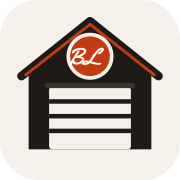
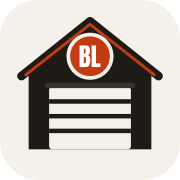
Add files via upload

Changed region(s): [[0.3889, 0.25, 0.5833, 0.3889]]

diff --git a/index.html b/index.html
@@ -3,15 +3,15 @@
 <head>
 <meta charset="utf-8">
 <meta name="viewport" content="width=device-width, initial-scale=1">
-<title>Back Lot Printing — Laser engraving &amp; 3D printing, made locally</title>
-<meta name="description" content="Family-owned laser engraving and 3D printing. Tumblers, flasks, dog tags, pet tags, gifts, metal business cards and tool marking — engraved and checked by hand.">
+<title>Back Lot Printing — Laser engraving, 3D printing &amp; custom shirts, made locally</title>
+<meta name="description" content="Family-owned laser engraving, 3D printing and custom DTF shirts. Tumblers, flasks, dog tags, pet tags, gifts, metal business cards and tool marking — engraved and checked by hand.">
 <link rel="icon" href="/favicon.ico" sizes="48x48">
 <link rel="icon" href="/favicon.svg" type="image/svg+xml">
 <link rel="icon" href="/favicon-192.png" type="image/png" sizes="192x192">
 <link rel="apple-touch-icon" href="/apple-touch-icon.png">
 <meta property="og:type" content="website">
 <meta property="og:site_name" content="Back Lot Printing">
-<meta property="og:title" content="Back Lot Printing — Laser engraving &amp; 3D printing in Sherwood Park">
+<meta property="og:title" content="Back Lot Printing — Laser engraving, 3D printing &amp; custom shirts in Sherwood Park">
 <meta property="og:description" content="Engraved gifts &amp; goods, made right here. Tumblers, metal business cards, golf balls, pet tags and custom 3D prints.">
 <meta property="og:url" content="https://backlotprinting.com/">
 <meta property="og:image" content="https://backlotprinting.com/og-image.png">
@@ -35,12 +35,13 @@
 <header class="site-header site-header--dark">
   <div class="wrap">
     <a class="logo" href="index.html" aria-label="Back Lot Printing home">
-      <svg width="48" height="48" viewBox="0 0 64 64" aria-hidden="true"><path d="M4 26 L32 5 L60 26 V60 H4 Z" fill="#1E1B17"/><rect x="15" y="33" width="34" height="27" fill="#F5F1EA"/><path d="M15 39.5 H49 M15 46 H49 M15 52.5 H49" stroke="#1E1B17" stroke-width="2.4"/><circle cx="32" cy="21.5" r="9.2" fill="#C23B12" stroke="#FFFFFF" stroke-width="1.6"/><text x="30.73" y="24.97" text-anchor="middle" font-family="Yellowtail, 'Brush Script MT', cursive" font-size="10" fill="#FFFFFF">BL</text></svg>
+      <svg width="48" height="48" viewBox="0 0 64 64" aria-hidden="true"><path d="M4 26 L32 5 L60 26 V60 H4 Z" fill="#1E1B17"/><rect x="15" y="33" width="34" height="27" fill="#F5F1EA"/><path d="M15 39.5 H49 M15 46 H49 M15 52.5 H49" stroke="#1E1B17" stroke-width="2.4"/><circle cx="32" cy="21.5" r="9.2" fill="#C23B12" stroke="#FFFFFF" stroke-width="1.6"/><path d="M27.57 26.1V16.9H30.07Q31.07 16.9 31.53 17.39Q31.98 17.88 31.98 19V19.4Q31.98 20.05 31.75 20.45Q31.52 20.86 31.04 20.98Q31.67 21.14 31.88 21.72Q32.09 22.29 32.09 23.13Q32.09 24.02 31.92 24.69Q31.75 25.36 31.32 25.73Q30.88 26.1 30.07 26.1ZM29.37 20.37H29.75Q30 20.37 30.08 20.17Q30.15 19.97 30.15 19.69V18.77Q30.15 18.32 29.76 18.32H29.37ZM29.55 24.48Q30.27 24.48 30.27 23.8V22.65Q30.27 22.26 30.15 22.03Q30.03 21.8 29.71 21.8H29.37V24.47Q29.49 24.48 29.55 24.48ZM32.7 26.1V16.9H34.54V24.53H36.43V26.1Z" fill="#FFFFFF"/></svg>
       <span class="logo-words"><b>BACK LOT</b><small>PRINTING</small></span>
     </a>
     <nav id="site-nav" class="nav" aria-label="Main">
       <a href="shop.html">Shop</a>
       <a href="shop.html?cat=print">3D printing</a>
+      <a href="shop.html?cat=apparel">Custom shirts</a>
       <a href="#byo">Bring your own</a>
       <a href="#business">Business &amp; trade</a>
       <a href="#work">Our work</a>
@@ -64,13 +65,13 @@
 <section class="hero hero--laser">
   <div class="wrap">
     <div class="hero-copy">
-      <p class="hero-kicker">Laser engraving &amp; 3D printing in <span data-cfg="town">Sherwood Park</span></p>
+      <p class="hero-kicker">Laser engraving, 3D printing &amp; custom shirts in <span data-cfg="town">Sherwood Park</span></p>
       <h1 class="h1 burn" aria-label="Engraved gifts and goods, made right here.">
         <span class="burn-line" aria-hidden="true"><span class="burn-text">Engraved gifts</span></span>
         <span class="burn-line" aria-hidden="true"><span class="burn-text">&amp; goods, made</span></span>
         <span class="burn-line" aria-hidden="true"><span class="burn-text">right here.</span></span>
       </h1>
-      <p class="lede">From $20 bring-your-own tumbler engraving to custom metal business cards, golf balls and personalized 3D-printed toys. Every piece is set up, engraved and checked by hand in our local family shop.</p>
+      <p class="lede">From $20 bring-your-own tumbler engraving to custom metal business cards, golf balls, personalized 3D-printed toys and full-colour custom shirts. Every piece is set up, engraved and checked by hand in our local family shop.</p>
       <div class="hero-actions">
         <a class="btn btn-accent" href="shop.html">Shop engraved goods</a>
         <a class="btn btn-ghost-light" href="#byo">Bring your own item</a>
@@ -267,7 +268,7 @@
       <rect x="18" y="38.5" width="44" height="2.6" rx="1.3" fill="#3A342C"/>
       <circle cx="40" cy="25.5" r="10.6" fill="#C23B12" stroke="#F5F1EA" stroke-width="1.8"/>
       <circle cx="40" cy="25.5" r="8.4" fill="none" stroke="#F5F1EA" stroke-width=".6" opacity=".7"/>
-      <text x="38.54" y="29.50" text-anchor="middle" font-family="Yellowtail, 'Brush Script MT', cursive" font-size="11.5" fill="#FFFFFF">BL</text>
+      <path d="M34.9 30.8V20.2H37.77Q38.93 20.2 39.45 20.76Q39.98 21.33 39.98 22.62V23.08Q39.98 23.83 39.71 24.3Q39.45 24.76 38.9 24.9Q39.61 25.08 39.86 25.75Q40.1 26.42 40.1 27.37Q40.1 28.4 39.91 29.17Q39.72 29.94 39.21 30.37Q38.71 30.8 37.77 30.8ZM36.97 24.19H37.4Q37.7 24.19 37.78 23.96Q37.87 23.74 37.87 23.42V22.35Q37.87 21.84 37.42 21.84H36.97ZM37.18 28.93Q38.01 28.93 38.01 28.15V26.83Q38.01 26.37 37.87 26.11Q37.74 25.85 37.36 25.85H36.97V28.92Q37.1 28.93 37.18 28.93ZM40.8 30.8V20.2H42.92V28.99H45.1V30.8Z" fill="#FFFFFF"/>
     </svg>
   </div>
   <div class="about-copy">
@@ -359,7 +360,7 @@
     <form class="card-form" id="quote-form" novalidate>
       <div class="field"><label for="q-name">Name</label><input id="q-name" name="Name" type="text" autocomplete="name" required></div>
       <div class="field"><label for="q-email">Email</label><input id="q-email" name="Email" type="email" autocomplete="email" required></div>
-      <div class="field"><label for="q-type">Type of order</label><select id="q-type" name="Type"><option>A gift</option><option>Bring-your-own engraving</option><option>Team, school or fundraiser</option><option>Business or trade</option><option>Wedding or event</option><option>Something else</option></select></div>
+      <div class="field"><label for="q-type">Type of order</label><select id="q-type" name="Type"><option>A gift</option><option>Bring-your-own engraving</option><option>Custom shirts, apparel or DTF printing</option><option>Team, school or fundraiser</option><option>Business or trade</option><option>Wedding or event</option><option>Something else</option></select></div>
       <div class="field"><label for="q-qty">Quantity</label><input id="q-qty" name="Quantity" type="number" min="1" placeholder="e.g. 12"></div>
       <div class="field full"><label for="q-msg">Details</label><textarea id="q-msg" name="Details" placeholder="What to engrave, on what, and when you need it" required></textarea></div>
       <p class="full muted" style="margin:0;font-size:14px">Have a logo or photo? Mention it here and we'll ask you to email it after we reply.</p>
@@ -379,6 +380,8 @@
     <details><summary>How long does it take?</summary><p>Most orders take <span data-cfg="turnaround">3–5 business days</span>. Need it sooner? Ask and we'll do our best.</p></details>
     <details><summary>How do I pay?</summary><p>Send your order request and we'll confirm the details and total. You can pay by e-transfer or when you pick up.</p></details>
     <details><summary>Can you personalize 3D-printed toys?</summary><p>Yes. We print our own toy designs in the colours you pick, then add a name, either printed right into the toy or laser-engraved afterwards. Perfect for birthdays, stocking stuffers and party favours. Toys have small parts and aren't meant for children under 3.</p></details>
+    <details><summary>What is DTF shirt printing?</summary><p>DTF (direct-to-film) prints your design in full colour onto a special film, then we heat-press it onto the garment. It works on cotton, polyester, blends, canvas and denim, on light or dark colours, so we can do shirts, hoodies, jackets, aprons, bags, pillow covers and more. There is no minimum: one piece is a real order. Wash inside out in cold water and it lasts.</p></details>
+    <details><summary>Can you print any design on a shirt?</summary><p>We print your own artwork, logos you own, names, numbers, photos and text. We can't print sports team logos, brands or characters you don't have the rights to. Send a high-resolution PNG (300 dpi at print size) or a vector file and we'll check it before printing.</p></details>
     <details><summary>What file should I send for a logo?</summary><p>Vector files (SVG, PDF, AI) are ideal. A high-resolution PNG works too, and we can clean up most logos for you.</p></details>
   </div>
 </section>
@@ -402,10 +405,10 @@
     <div class="footer-grid">
       <div class="footer-col">
         <a class="logo" href="index.html" aria-label="Back Lot Printing home" style="color:#F5F1EA">
-          <svg width="52" height="52" viewBox="0 0 64 64" aria-hidden="true"><path d="M4 26 L32 5 L60 26 V60 H4 Z" fill="#F5F1EA"/><rect x="15" y="33" width="34" height="27" fill="#1E1B17"/><path d="M15 39.5 H49 M15 46 H49 M15 52.5 H49" stroke="#F5F1EA" stroke-width="2.4"/><circle cx="32" cy="21.5" r="9.2" fill="#C23B12" stroke="#FFFFFF" stroke-width="1.6"/><text x="30.73" y="24.97" text-anchor="middle" font-family="Yellowtail, 'Brush Script MT', cursive" font-size="10" fill="#FFFFFF">BL</text></svg>
+          <svg width="52" height="52" viewBox="0 0 64 64" aria-hidden="true"><path d="M4 26 L32 5 L60 26 V60 H4 Z" fill="#F5F1EA"/><rect x="15" y="33" width="34" height="27" fill="#1E1B17"/><path d="M15 39.5 H49 M15 46 H49 M15 52.5 H49" stroke="#F5F1EA" stroke-width="2.4"/><circle cx="32" cy="21.5" r="9.2" fill="#C23B12" stroke="#FFFFFF" stroke-width="1.6"/><path d="M27.57 26.1V16.9H30.07Q31.07 16.9 31.53 17.39Q31.98 17.88 31.98 19V19.4Q31.98 20.05 31.75 20.45Q31.52 20.86 31.04 20.98Q31.67 21.14 31.88 21.72Q32.09 22.29 32.09 23.13Q32.09 24.02 31.92 24.69Q31.75 25.36 31.32 25.73Q30.88 26.1 30.07 26.1ZM29.37 20.37H29.75Q30 20.37 30.08 20.17Q30.15 19.97 30.15 19.69V18.77Q30.15 18.32 29.76 18.32H29.37ZM29.55 24.48Q30.27 24.48 30.27 23.8V22.65Q30.27 22.26 30.15 22.03Q30.03 21.8 29.71 21.8H29.37V24.47Q29.49 24.48 29.55 24.48ZM32.7 26.1V16.9H34.54V24.53H36.43V26.1Z" fill="#FFFFFF"/></svg>
           <span class="logo-words"><b>BACK LOT</b><small>PRINTING</small></span>
         </a>
-        <p class="footer-note">Family-owned laser engraving &amp; 3D printing in <span data-cfg="town">[YOUR TOWN]</span>. Gifts, keepsakes and business goods, made by hand.</p>
+        <p class="footer-note">Family-owned laser engraving, 3D printing &amp; custom shirts in <span data-cfg="town">[YOUR TOWN]</span>. Gifts, keepsakes and business goods, made by hand.</p>
         <a data-link="instagram" data-cfg-if="instagram" href="#"></a>
       </div>
       <div class="footer-col"><strong>Shop</strong><a href="shop.html">All products</a><a href="shop.html?cat=drink">Drinkware</a><a href="shop.html?cat=gifts">Gift ideas</a><a href="#byo">Bring your own</a></div>
@@ -425,10 +428,10 @@ document.addEventListener('DOMContentLoaded', function () {
   var catBlurb = {
     drink: 'Tumblers, flasks, bottles and pint cups', tags: 'Dog tags, pet tags, keychains, bag tags',
     pets: 'Pet ID tags, collar plates, memorial slate', edc: 'Knives, lighters, money clips, multitools',
-    gifts: 'Boards, slate, photo metal, leather', print: 'Personalized toys, name keychains, jigs', kids: 'Ornaments, cut-outs, paint-your-own', awards: 'Challenge coins, plaques, awards', biz: 'Business cards, asset tags, tool marking'
+    gifts: 'Boards, slate, photo metal, leather', print: 'Personalized toys, name keychains, jigs', apparel: 'Tees, hoodies, bags, DTF transfers and anything we can press', kids: 'Ornaments, cut-outs, paint-your-own', awards: 'Challenge coins, plaques, awards', biz: 'Business cards, asset tags, tool marking'
   };
-  var catArt = { drink: 'tumbler', tags: 'keychain', pets: 'dogtag', edc: 'knife', gifts: 'board', print: 'print3d', kids: 'ornament', awards: 'award', biz: 'card' };
-  var catBg = { drink: '#EDE6DA', tags: '#E4E8DF', pets: '#F1E3D8', edc: '#EDE6DA', gifts: '#EDE6DA', print: '#E4E8DF', kids: '#F1E3D8', awards: '#EDE6DA', biz: '#E0E7E5' };
+  var catArt = { drink: 'tumbler', tags: 'keychain', pets: 'dogtag', edc: 'knife', gifts: 'board', print: 'print3d', apparel: 'tshirt', kids: 'ornament', awards: 'award', biz: 'card' };
+  var catBg = { drink: '#EDE6DA', tags: '#E4E8DF', pets: '#F1E3D8', edc: '#EDE6DA', gifts: '#EDE6DA', print: '#E4E8DF', apparel: '#E0E7E5', kids: '#F1E3D8', awards: '#EDE6DA', biz: '#E0E7E5' };
   var html = '';
   Object.keys(catBlurb).forEach(function (c) {
     var items = P.filter(function (p) { return p.cat === c; });

diff --git a/shop.html b/shop.html
@@ -4,7 +4,7 @@
 <meta charset="utf-8">
 <meta name="viewport" content="width=device-width, initial-scale=1">
 <title>Shop — Back Lot Printing</title>
-<meta name="description" content="Shop engraved tumblers, flasks, dog tags, pet tags, gifts, awards and business goods. Bring your own item or pick one of ours.">
+<meta name="description" content="Shop engraved tumblers, flasks, dog tags, pet tags, gifts, awards, business goods, custom shirts and DTF transfers. Bring your own item or pick one of ours.">
 <link rel="icon" href="/favicon.ico" sizes="48x48">
 <link rel="icon" href="/favicon.svg" type="image/svg+xml">
 <link rel="icon" href="/favicon-192.png" type="image/png" sizes="192x192">
@@ -24,12 +24,13 @@
 <header class="site-header">
   <div class="wrap">
     <a class="logo" href="index.html" aria-label="Back Lot Printing home">
-      <svg width="48" height="48" viewBox="0 0 64 64" aria-hidden="true"><path d="M4 26 L32 5 L60 26 V60 H4 Z" fill="#1E1B17"/><rect x="15" y="33" width="34" height="27" fill="#F5F1EA"/><path d="M15 39.5 H49 M15 46 H49 M15 52.5 H49" stroke="#1E1B17" stroke-width="2.4"/><circle cx="32" cy="21.5" r="9.2" fill="#C23B12" stroke="#FFFFFF" stroke-width="1.6"/><text x="30.73" y="24.97" text-anchor="middle" font-family="Yellowtail, 'Brush Script MT', cursive" font-size="10" fill="#FFFFFF">BL</text></svg>
+      <svg width="48" height="48" viewBox="0 0 64 64" aria-hidden="true"><path d="M4 26 L32 5 L60 26 V60 H4 Z" fill="#1E1B17"/><rect x="15" y="33" width="34" height="27" fill="#F5F1EA"/><path d="M15 39.5 H49 M15 46 H49 M15 52.5 H49" stroke="#1E1B17" stroke-width="2.4"/><circle cx="32" cy="21.5" r="9.2" fill="#C23B12" stroke="#FFFFFF" stroke-width="1.6"/><path d="M27.57 26.1V16.9H30.07Q31.07 16.9 31.53 17.39Q31.98 17.88 31.98 19V19.4Q31.98 20.05 31.75 20.45Q31.52 20.86 31.04 20.98Q31.67 21.14 31.88 21.72Q32.09 22.29 32.09 23.13Q32.09 24.02 31.92 24.69Q31.75 25.36 31.32 25.73Q30.88 26.1 30.07 26.1ZM29.37 20.37H29.75Q30 20.37 30.08 20.17Q30.15 19.97 30.15 19.69V18.77Q30.15 18.32 29.76 18.32H29.37ZM29.55 24.48Q30.27 24.48 30.27 23.8V22.65Q30.27 22.26 30.15 22.03Q30.03 21.8 29.71 21.8H29.37V24.47Q29.49 24.48 29.55 24.48ZM32.7 26.1V16.9H34.54V24.53H36.43V26.1Z" fill="#FFFFFF"/></svg>
       <span class="logo-words"><b>BACK LOT</b><small>PRINTING</small></span>
     </a>
     <nav id="site-nav" class="nav" aria-label="Main">
       <a href="shop.html" aria-current="page">Shop</a>
       <a href="shop.html?cat=print">3D printing</a>
+      <a href="shop.html?cat=apparel">Custom shirts</a>
       <a href="index.html#byo">Bring your own</a>
       <a href="index.html#business">Business &amp; trade</a>
       <a href="index.html#about">About</a>
@@ -50,8 +51,8 @@
 
 <main class="wrap">
   <div class="shop-head">
-    <div><span class="label">Engraved in our shop</span><h1 class="h1" style="font-size:clamp(40px,5vw,68px)">Shop custom goods</h1></div>
-    <p class="lede" style="max-width:26em">Tap any item to personalize it. Bring your own tumbler, knife or tag, or pick one of ours. Save 10% at 10 pieces and 20% at 50.</p>
+    <div><span class="label">Made in our shop</span><h1 class="h1" style="font-size:clamp(40px,5vw,68px)">Shop custom goods</h1></div>
+    <p class="lede" style="max-width:26em">Tap any item to personalize it. Bring your own tumbler, knife, tag or shirt, or pick one of ours. Save 10% at 10 pieces and 20% at 50.</p>
   </div>
 
   <div class="filters">
@@ -103,9 +104,9 @@
         <span class="dlg-price" id="dlg-price"></span>
       </div>
       <p class="muted" id="dlg-desc" style="margin:0"></p>
-      <div class="pills"><span id="dlg-supply"></span><span>Proof before we engrave</span><span>Ready in <span data-cfg="turnaround">3–5 business days</span></span></div>
+      <div class="pills"><span id="dlg-supply"></span><span id="dlg-proof">Proof before we engrave</span><span>Ready in <span data-cfg="turnaround">3–5 business days</span></span></div>
       <div class="field">
-        <label for="dlg-text">What should we engrave?</label>
+        <label for="dlg-text" id="dlg-ask">What should we engrave?</label>
         <input id="dlg-text" type="text" maxlength="80" placeholder="Name, date, initials — or 'logo, I'll email it'">
       </div>
       <div class="field">
@@ -135,10 +136,10 @@
     <div class="footer-grid">
       <div class="footer-col">
         <a class="logo" href="index.html" aria-label="Back Lot Printing home" style="color:#F5F1EA">
-          <svg width="52" height="52" viewBox="0 0 64 64" aria-hidden="true"><path d="M4 26 L32 5 L60 26 V60 H4 Z" fill="#F5F1EA"/><rect x="15" y="33" width="34" height="27" fill="#1E1B17"/><path d="M15 39.5 H49 M15 46 H49 M15 52.5 H49" stroke="#F5F1EA" stroke-width="2.4"/><circle cx="32" cy="21.5" r="9.2" fill="#C23B12" stroke="#FFFFFF" stroke-width="1.6"/><text x="30.73" y="24.97" text-anchor="middle" font-family="Yellowtail, 'Brush Script MT', cursive" font-size="10" fill="#FFFFFF">BL</text></svg>
+          <svg width="52" height="52" viewBox="0 0 64 64" aria-hidden="true"><path d="M4 26 L32 5 L60 26 V60 H4 Z" fill="#F5F1EA"/><rect x="15" y="33" width="34" height="27" fill="#1E1B17"/><path d="M15 39.5 H49 M15 46 H49 M15 52.5 H49" stroke="#F5F1EA" stroke-width="2.4"/><circle cx="32" cy="21.5" r="9.2" fill="#C23B12" stroke="#FFFFFF" stroke-width="1.6"/><path d="M27.57 26.1V16.9H30.07Q31.07 16.9 31.53 17.39Q31.98 17.88 31.98 19V19.4Q31.98 20.05 31.75 20.45Q31.52 20.86 31.04 20.98Q31.67 21.14 31.88 21.72Q32.09 22.29 32.09 23.13Q32.09 24.02 31.92 24.69Q31.75 25.36 31.32 25.73Q30.88 26.1 30.07 26.1ZM29.37 20.37H29.75Q30 20.37 30.08 20.17Q30.15 19.97 30.15 19.69V18.77Q30.15 18.32 29.76 18.32H29.37ZM29.55 24.48Q30.27 24.48 30.27 23.8V22.65Q30.27 22.26 30.15 22.03Q30.03 21.8 29.71 21.8H29.37V24.47Q29.49 24.48 29.55 24.48ZM32.7 26.1V16.9H34.54V24.53H36.43V26.1Z" fill="#FFFFFF"/></svg>
           <span class="logo-words"><b>BACK LOT</b><small>PRINTING</small></span>
         </a>
-        <p class="footer-note">Family-owned laser engraving &amp; 3D printing in <span data-cfg="town">[YOUR TOWN]</span>.</p>
+        <p class="footer-note">Family-owned laser engraving, 3D printing &amp; custom shirts in <span data-cfg="town">[YOUR TOWN]</span>.</p>
       </div>
       <div class="footer-col"><strong>Shop</strong><a href="shop.html">All products</a><a href="shop.html?cat=drink">Drinkware</a><a href="shop.html?cat=gifts">Gift ideas</a></div>
       <div class="footer-col"><strong>Business</strong><a href="shop.html?cat=biz">Tool &amp; asset marking</a><a href="index.html#quote">Bulk quotes</a></div>
@@ -221,6 +222,10 @@ document.addEventListener('DOMContentLoaded', function () {
     document.getElementById('dlg-price').textContent = BL.priceLabel(cur);
     document.getElementById('dlg-desc').textContent = cur.desc;
     document.getElementById('dlg-supply').textContent = cur.byo ? 'You bring the item' : 'We supply the item';
+    var isPrint = cur.cat === 'apparel';
+    document.getElementById('dlg-proof').textContent = isPrint ? 'Proof before we print' : 'Proof before we engrave';
+    document.getElementById('dlg-ask').textContent = isPrint ? 'What should we print?' : 'What should we engrave?';
+    textIn.placeholder = isPrint ? "Your text or 'design, I'll email it' + sizes & colours" : "Name, date, initials — or 'logo, I'll email it'";
     document.getElementById('dlg-status').textContent = '';
     textIn.value = presetText || ''; notesIn.value = '';
     qtyIn.min = minQty(cur); qtyIn.value = minQty(cur);
@@ -240,7 +245,7 @@ document.addEventListener('DOMContentLoaded', function () {
   document.getElementById('dlg-form').addEventListener('submit', function (e) {
     e.preventDefault();
     var st = document.getElementById('dlg-status');
-    if (!textIn.value.trim()) { st.textContent = 'Tell us what to engrave — a name, date, or "logo".'; st.className = 'form-status err'; textIn.focus(); return; }
+    if (!textIn.value.trim()) { st.textContent = cur.cat === 'apparel' ? 'Tell us what to print — text, or "design, I\'ll email it".' : 'Tell us what to engrave — a name, date, or "logo".'; st.className = 'form-status err'; textIn.focus(); return; }
     var q = Math.max(minQty(cur), parseInt(qtyIn.value, 10) || minQty(cur));
     BL.addToOrder({ id: cur.id, qty: q, text: textIn.value.trim(), notes: notesIn.value.trim() });
     st.innerHTML = 'Added ' + q + ' to your order. <a href="order.html">View order</a>';

diff --git a/products.js b/products.js
@@ -9,10 +9,11 @@
      name   product name
      price  number, no $ sign
      unit   "flat" = per item, "ea" = each (bulk item), "from" = starting at
-     cat    drink | pets | tags | edc | gifts | kids | print | awards | biz
+     cat    drink | pets | tags | edc | gifts | kids | print | apparel | awards | biz
             (jewelry is hidden for now — add a line with cat: "jewelry" to bring it back)
      kind   picture: tumbler flask bottle dogtag keychain card knife jewelry
             board coaster award patch tool ornament lighter photo print3d
+            tshirt transfer tote
      byo    true if the customer brings the item
      feat   true to show it first / as popular
      min    (optional) minimum quantity
@@ -64,6 +65,15 @@ window.BACKLOT_PRODUCTS = [
   { id: "x2", name: "Custom Jigs & Organizers", price: 15, unit: "from", cat: "print", kind: "print3d", img: "images/3d-printed-golf-jig.jpg", desc: "Holders, trays and organizers designed to fit your exact items — like our 6-ball golf jig. Tell us what it needs to hold and we'll quote it." },
   { id: "x3", name: "Printed + Engraved Combo", price: 25, unit: "from", cat: "print", kind: "print3d", desc: "A 3D-printed piece paired with laser engraving: a display stand for a coin, a gift box for engraved golf balls, a keychain with an engraved metal tag. Ask for ideas." },
   { id: "x4", name: "Custom 3D Print", price: 10, unit: "from", cat: "print", kind: "print3d", desc: "Have an idea, a sketch or a part you need? We design and print it. Priced by size and print time — send us the details for a quote." },
+  { id: "s1", name: "Custom Printed T-Shirt", price: 25, unit: "from", cat: "apparel", kind: "tshirt", feat: true, tiers: [[12, 20], [24, 17]], desc: "Soft cotton tee in your size and colour with your design, name or logo printed in full colour (DTF). Looks great on light and dark shirts. $20 each for 12+, $17 each for 24+." },
+  { id: "s2", name: "Shirt Printing — Bring Your Own", price: 15, unit: "from", cat: "apparel", kind: "tshirt", byo: true, tiers: [[12, 11]], desc: "Bring your own tee, hoodie, jacket, apron or tote and we press your design on. Cotton, polyester, blends, canvas and denim. Front print from $15, $11 each for 12+." },
+  { id: "s3", name: "Team & Event Shirts", price: 18, unit: "ea", cat: "apparel", kind: "tshirt", min: 12, tiers: [[24, 15], [50, 13]], desc: "Hockey and ball teams, family reunions, stags and stagettes, staff shirts. Front print included; add names or numbers on the back. Minimum 12. $15 each at 24+, $13 each at 50+." },
+  { id: "s4", name: "Custom Hoodie", price: 45, unit: "from", cat: "apparel", kind: "tshirt", tiers: [[12, 38]], desc: "Pullover hoodie with your design on the front, back or both. Team names and numbers welcome. $38 each for 12+." },
+  { id: "s8", name: "Custom DTF on Anything", price: 15, unit: "from", cat: "apparel", kind: "transfer", byo: true, feat: true, desc: "If it's fabric and can take the heat, we can press it: hoodies, jackets, work shirts, aprons, tote and duffel bags, pillow covers, blankets, pet bandanas and more. Bring it in or we'll source it. Caps: ask first. Priced by print size." },
+  { id: "s5", name: "Custom Tote Bag", price: 18, unit: "flat", cat: "apparel", kind: "tote", tiers: [[12, 14]], desc: "Heavy cotton tote printed in full colour. Markets, teachers, gifts and giveaways. $14 each for 12+." },
+  { id: "s6", name: "DTF Transfers — Press Them Yourself", price: 4, unit: "from", cat: "apparel", kind: "transfer", feat: true, desc: "Ready-to-press transfers of your design for your own heat press. Pocket or left-chest size from $4, full front (up to 11 in) from $10. Pressing instructions included." },
+  { id: "s7", name: "DTF Gang Sheet (13 × 19 in)", price: 25, unit: "flat", cat: "apparel", kind: "transfer", tiers: [[5, 22]], desc: "Fill a 13 × 19 in sheet with as many designs as fit, printed and powdered, ready to press. Send your files and we'll help with the layout. $22 each for 5+." },
+
   { id: "a1", name: "Black Acrylic Award", price: 55, unit: "flat", cat: "awards", kind: "award", desc: "Black or coloured acrylic, engraved in crisp contrast. Tournaments, banquets, staff awards." },
   { id: "a2", name: "Metal Plaque", price: 50, unit: "flat", cat: "awards", kind: "card", desc: "Engraved aluminum or brass plate on a wood backer." },
   { id: "a3", name: "Challenge Coin", price: 20, unit: "flat", cat: "awards", kind: "coaster", img: "images/skull-coin.jpg", desc: "Heavy 4 mm coin with your design engraved in warm gold tones on silver. Crews, teams, clubs and keepsakes." },

diff --git a/order.html b/order.html
@@ -23,12 +23,13 @@
 <header class="site-header">
   <div class="wrap">
     <a class="logo" href="index.html" aria-label="Back Lot Printing home">
-      <svg width="48" height="48" viewBox="0 0 64 64" aria-hidden="true"><path d="M4 26 L32 5 L60 26 V60 H4 Z" fill="#1E1B17"/><rect x="15" y="33" width="34" height="27" fill="#F5F1EA"/><path d="M15 39.5 H49 M15 46 H49 M15 52.5 H49" stroke="#1E1B17" stroke-width="2.4"/><circle cx="32" cy="21.5" r="9.2" fill="#C23B12" stroke="#FFFFFF" stroke-width="1.6"/><text x="30.73" y="24.97" text-anchor="middle" font-family="Yellowtail, 'Brush Script MT', cursive" font-size="10" fill="#FFFFFF">BL</text></svg>
+      <svg width="48" height="48" viewBox="0 0 64 64" aria-hidden="true"><path d="M4 26 L32 5 L60 26 V60 H4 Z" fill="#1E1B17"/><rect x="15" y="33" width="34" height="27" fill="#F5F1EA"/><path d="M15 39.5 H49 M15 46 H49 M15 52.5 H49" stroke="#1E1B17" stroke-width="2.4"/><circle cx="32" cy="21.5" r="9.2" fill="#C23B12" stroke="#FFFFFF" stroke-width="1.6"/><path d="M27.57 26.1V16.9H30.07Q31.07 16.9 31.53 17.39Q31.98 17.88 31.98 19V19.4Q31.98 20.05 31.75 20.45Q31.52 20.86 31.04 20.98Q31.67 21.14 31.88 21.72Q32.09 22.29 32.09 23.13Q32.09 24.02 31.92 24.69Q31.75 25.36 31.32 25.73Q30.88 26.1 30.07 26.1ZM29.37 20.37H29.75Q30 20.37 30.08 20.17Q30.15 19.97 30.15 19.69V18.77Q30.15 18.32 29.76 18.32H29.37ZM29.55 24.48Q30.27 24.48 30.27 23.8V22.65Q30.27 22.26 30.15 22.03Q30.03 21.8 29.71 21.8H29.37V24.47Q29.49 24.48 29.55 24.48ZM32.7 26.1V16.9H34.54V24.53H36.43V26.1Z" fill="#FFFFFF"/></svg>
       <span class="logo-words"><b>BACK LOT</b><small>PRINTING</small></span>
     </a>
     <nav id="site-nav" class="nav" aria-label="Main">
       <a href="shop.html">Shop</a>
       <a href="shop.html?cat=print">3D printing</a>
+      <a href="shop.html?cat=apparel">Custom shirts</a>
       <a href="index.html#byo">Bring your own</a>
       <a href="index.html#business">Business &amp; trade</a>
       <a href="index.html#faq">FAQ</a>

diff --git a/site.js b/site.js
@@ -21,7 +21,10 @@
     ornament: ['M8 36 A24 22 0 1 0 56 36 A24 22 0 1 0 8 36 Z M28 8 H36 V14 H28 Z', 'M20 33 H44 V39 H20 Z', '#1E1B17'],
     lighter: ['M18 16 H46 V58 H18 Z M18 6 H40 V14 H18 Z', 'M24 26 H40 V42 H24 Z', '#1E1B17'],
     print3d: ['M32 4 L56 17 V45 L32 58 L8 45 V17 Z', 'M32 30 L56 17 M32 30 L8 17 M32 30 V58 L30 58 V31 L8 18.5 L9 16.5 L32 29 L55 16.5 L56 18.5 L34 30 V58 L32 58 Z', '#1E1B17'],
-    photo: ['M6 10 H58 V54 H6 Z', 'M12 44 L24 30 L34 40 L42 32 L52 44 Z M40 18 A4 4 0 1 0 48 18 A4 4 0 1 0 40 18 Z', '#1E1B17']
+    photo: ['M6 10 H58 V54 H6 Z', 'M12 44 L24 30 L34 40 L42 32 L52 44 Z M40 18 A4 4 0 1 0 48 18 A4 4 0 1 0 40 18 Z', '#1E1B17'],
+    tshirt: ['M23 7 L10 13 L3 27 L13 32 L16 27 V58 H48 V27 L51 32 L61 27 L54 13 L41 7 Q32 15 23 7 Z', 'M24 30 H40 V44 H24 Z', '#1E1B17'],
+    transfer: ['M10 5 H45 L56 16 V59 H10 Z', 'M32 21 L36 30 L46 31 L38.5 37.5 L41 47 L32 42 L23 47 L25.5 37.5 L18 31 L28 30 Z', '#3A362D'],
+    tote: ['M11 23 H53 L50 59 H14 Z M21 23 V17 A11 11 0 0 1 43 17 V23 H39 V17 A7 7 0 0 0 25 17 V23 Z', 'M24 33 H40 V47 H24 Z', '#8A6A45']
   };
   function iconSVG(kind) {
     var ic = ICONS[kind] || ICONS.card;
@@ -36,7 +39,7 @@
   var CATS = [
     { id: 'drink', label: 'Drinkware' }, { id: 'pets', label: 'Pets' },
     { id: 'tags', label: 'Tags & keychains' }, { id: 'edc', label: 'Everyday carry' },
-    { id: 'jewelry', label: 'Jewelry' }, { id: 'gifts', label: 'Gifts & home' }, { id: 'kids', label: 'Wood & ornaments' }, { id: 'print', label: '3D printing' },
+    { id: 'jewelry', label: 'Jewelry' }, { id: 'gifts', label: 'Gifts & home' }, { id: 'kids', label: 'Wood & ornaments' }, { id: 'print', label: '3D printing' }, { id: 'apparel', label: 'Custom shirts & DTF' },
     { id: 'awards', label: 'Awards' }, { id: 'biz', label: 'Business & trade' }
   ];
 

diff --git a/styles.css b/styles.css
@@ -506,3 +506,17 @@ dialog.product::backdrop { background: rgba(30,27,23,.55); }
 .topbar--xmas a:hover { color: var(--ink); }
 
 .about-mark { width: min(330px, 70%); height: auto; }
+
+/* ---------- Shirts link added: keep menu items on one line, switch to the menu button on narrower screens ---------- */
+.nav { gap: 22px; }
+.nav a { white-space: nowrap; }
+@media (max-width: 1380px) {
+  .menu-toggle { display: inline-flex; }
+  .nav { display: none; position: absolute; top: 100%; left: 0; right: 0; flex-direction: column; gap: 0; background: var(--paper); border-bottom: 1px solid var(--line); padding: 8px 24px 16px; }
+  .nav.open { display: flex; }
+  .nav a { padding: 14px 0; border-bottom: 1px solid var(--line); }
+  .site-header .wrap { gap: 16px; justify-content: space-between; }
+  .site-header--dark .nav { background: var(--ink); border-bottom-color: #3A342C; }
+  .site-header--dark .nav a { border-bottom-color: #3A342C; }
+}
+.header-actions .btn, .cart-link { white-space: nowrap; }
